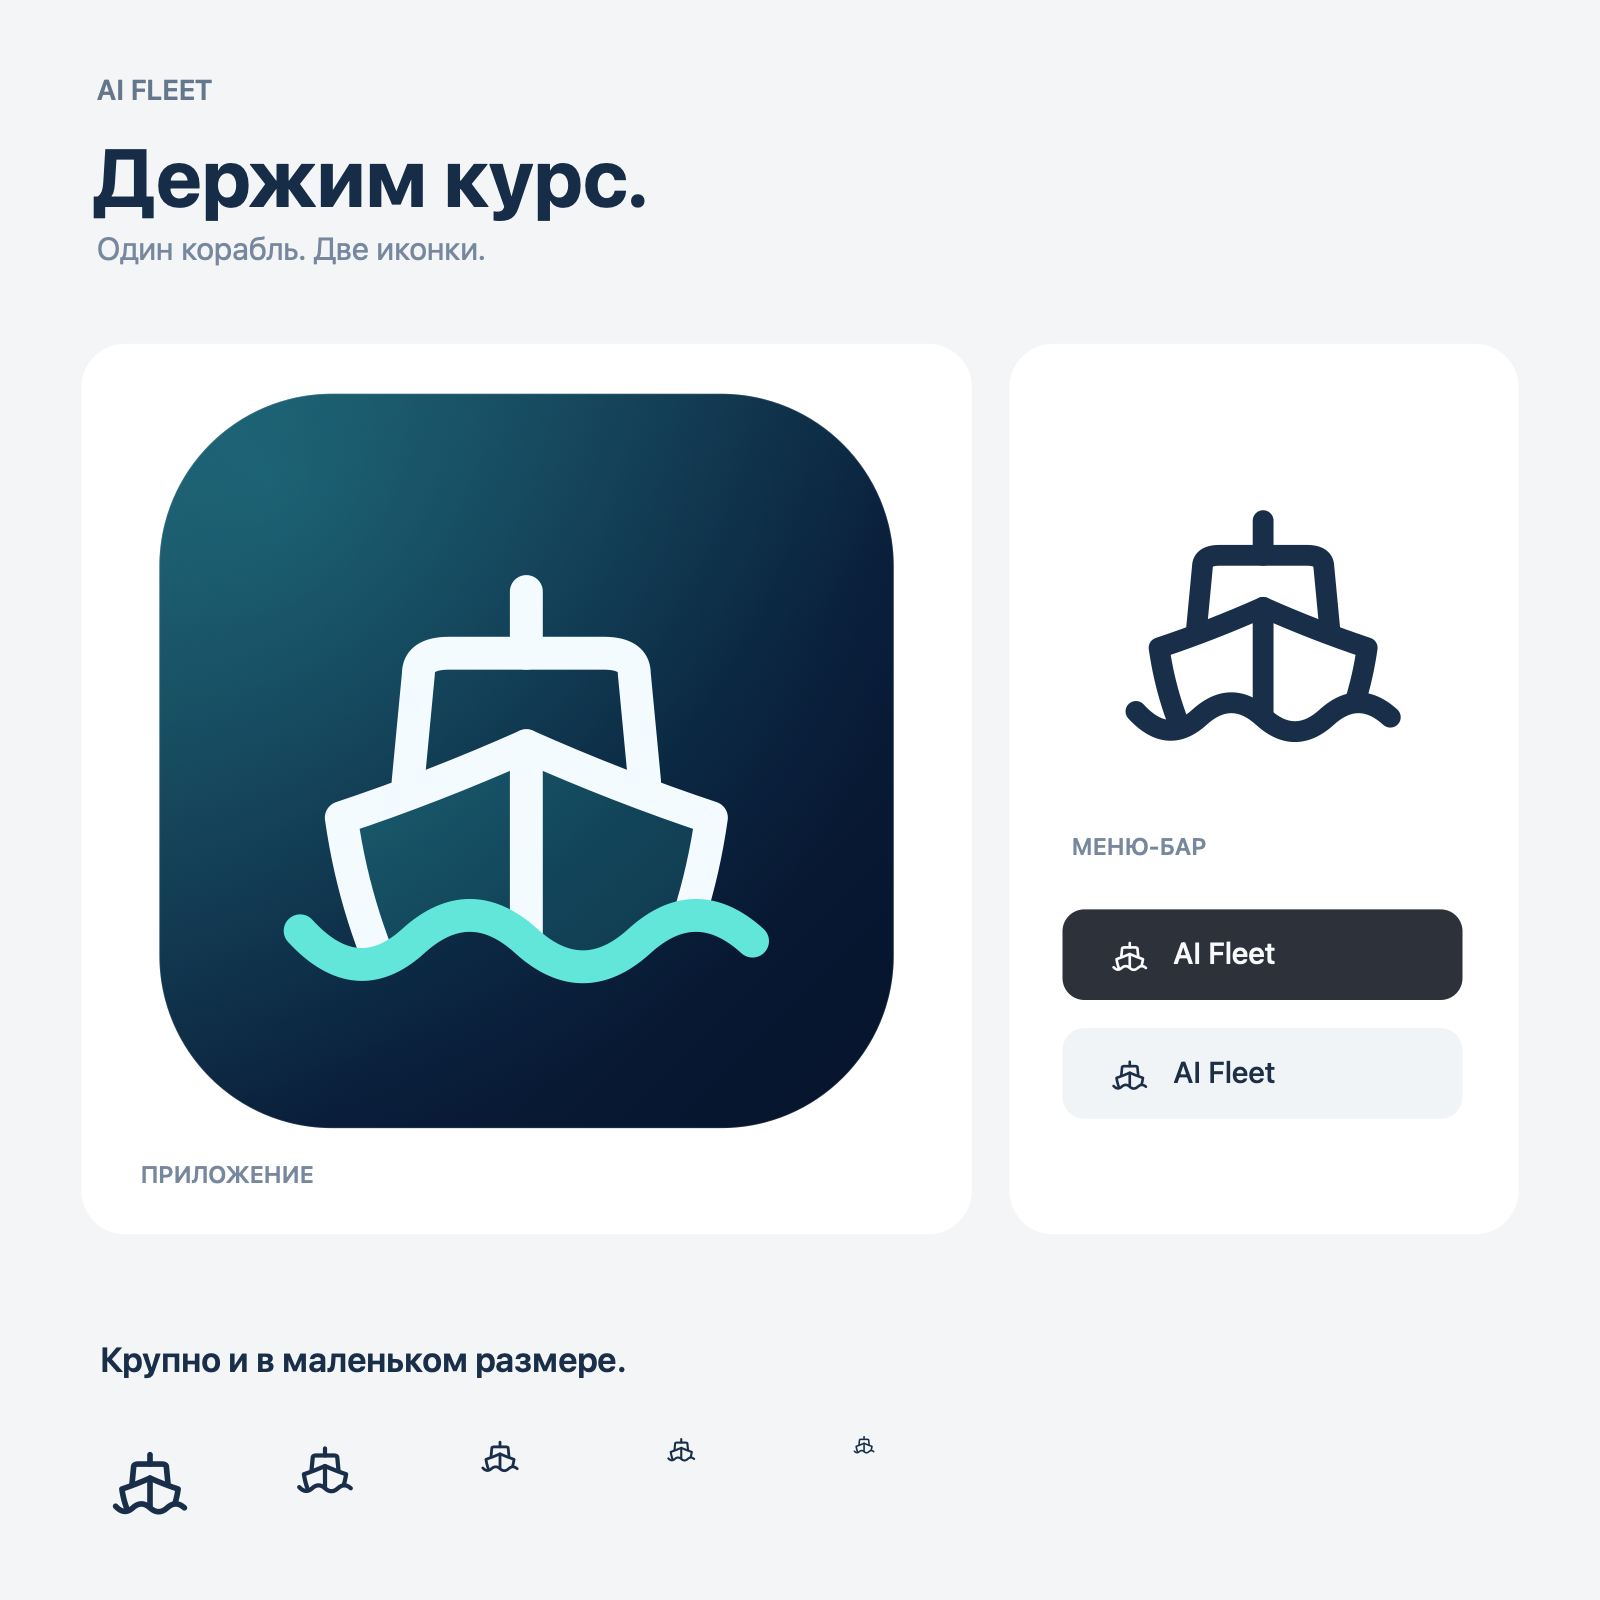
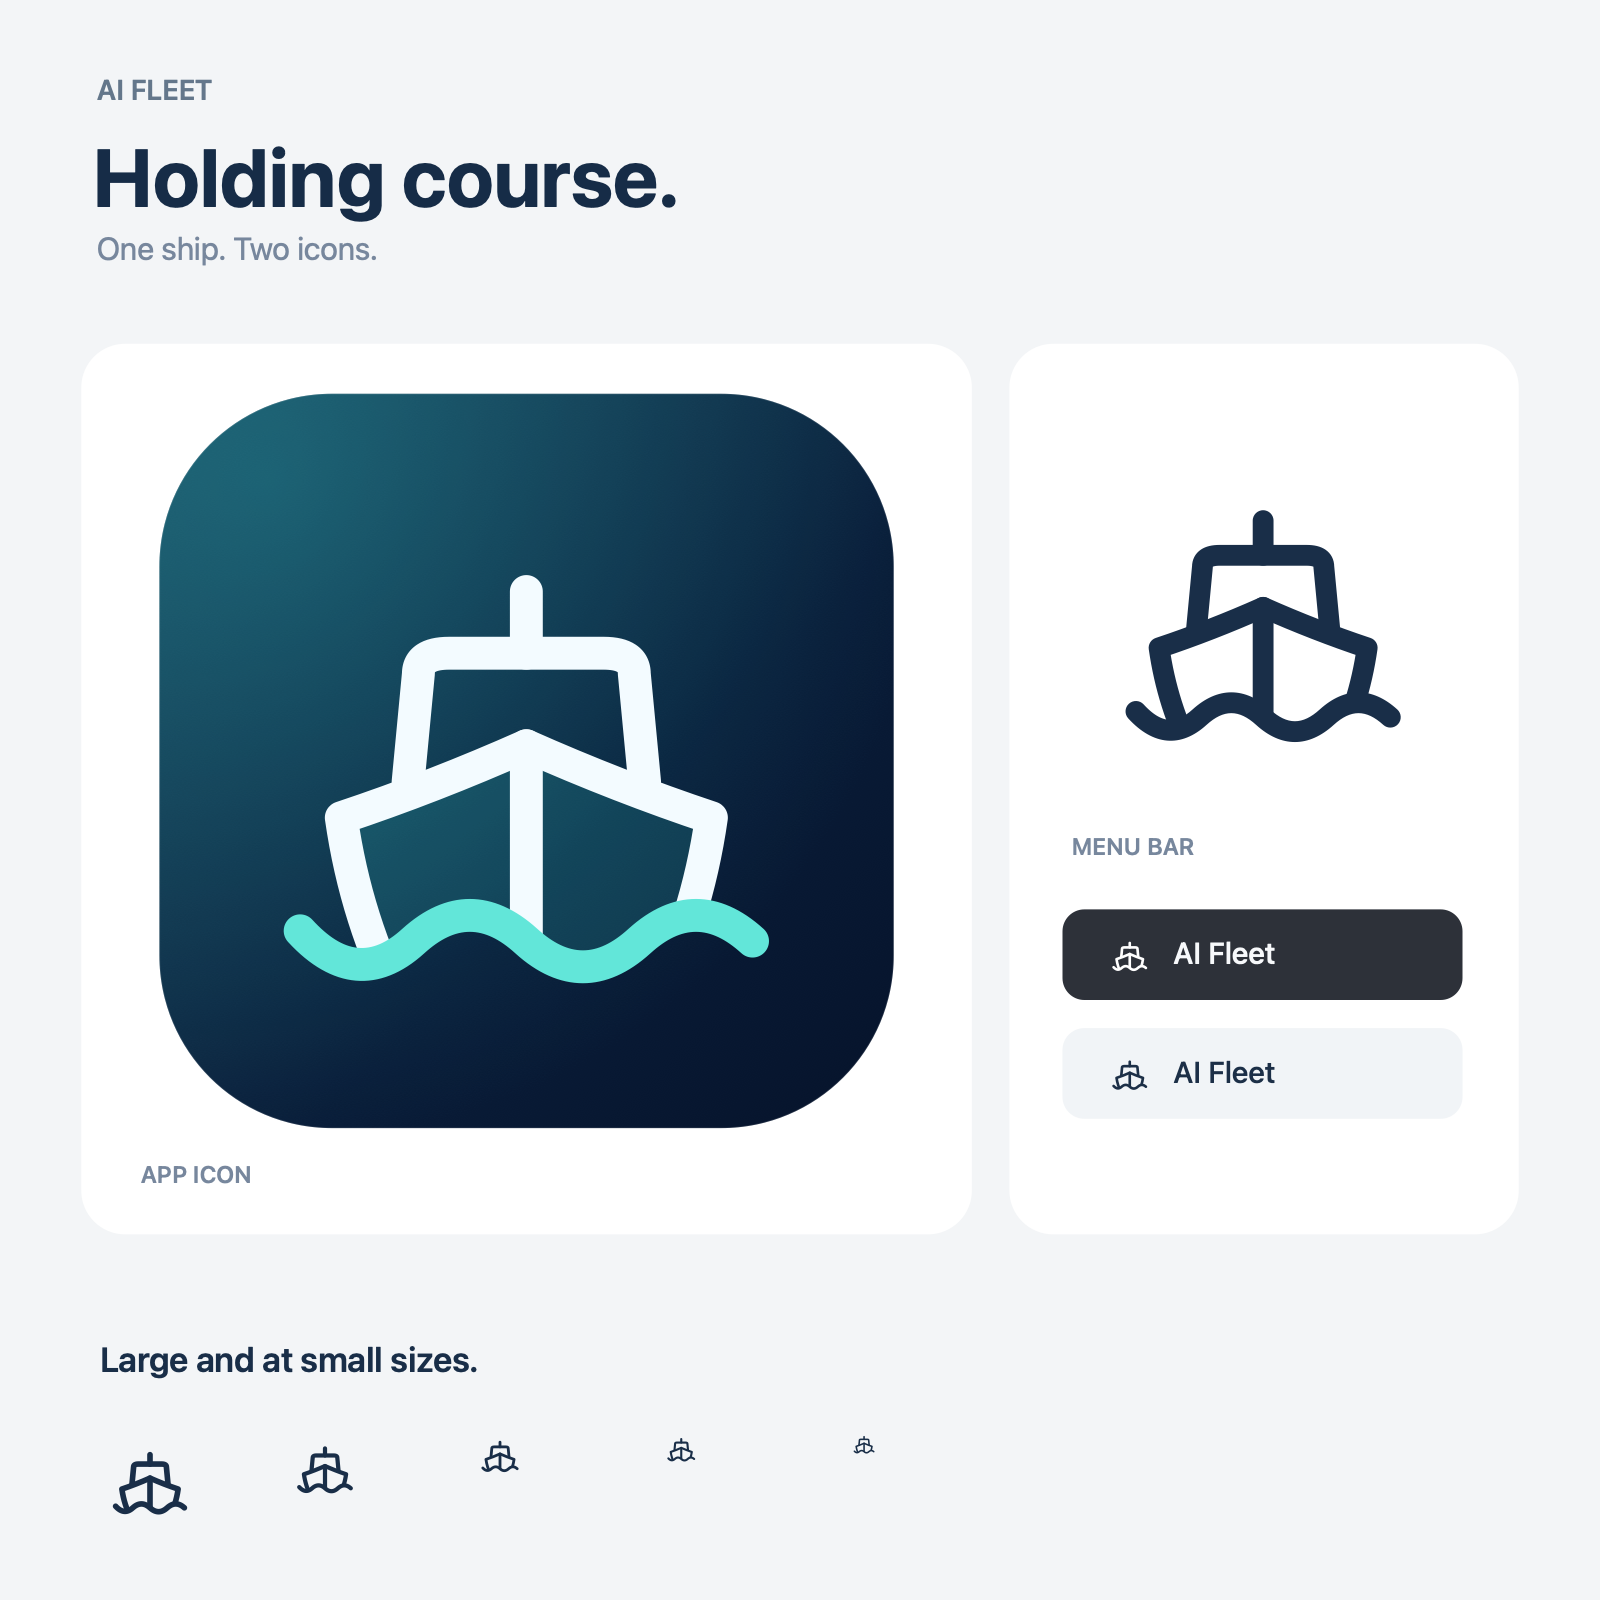
docs: translate ship-v4 preview labels to English
Translate the Russian labels in the ship-v4 preview generator, regenerate
Preview.png with the native renderer, and record the English artifact
language rule in AGENTS.md.

diff --git a/docs/assets/icon-collection/ship-v4/draw.swift b/docs/assets/icon-collection/ship-v4/draw.swift
@@ -86,22 +86,22 @@ try render(size: 1600, file: "Preview.png") { ctx in
         NSGraphicsContext.restoreGraphicsState()
     }
     text("AI FLEET", x: 62, y: 45, size: 18, ink: "526378", weight: .semibold)
-    text("Держим курс.", x: 60, y: 78, size: 52, ink: "122037", weight: .bold)
-    text("Один корабль. Две иконки.", x: 62, y: 146, size: 20, ink: "64748B")
+    text("Holding course.", x: 60, y: 78, size: 52, ink: "122037", weight: .bold)
+    text("One ship. Two icons.", x: 62, y: 146, size: 20, ink: "64748B")
     ctx.setFillColor(color("FFFFFF")); ctx.addPath(CGPath(roundedRect: CGRect(x: 52, y: 220, width: 570, height: 570), cornerWidth: 28, cornerHeight: 28, transform: nil)); ctx.fillPath()
     tile(ctx, rect: CGRect(x: 102, y: 252, width: 470, height: 470))
     ship(ctx, x: 126.3, y: 273.3, scale: 6.58, ink: "F0FAFF", app: true)
-    text("ПРИЛОЖЕНИЕ", x: 90, y: 742, size: 15, ink: "64748B", weight: .semibold)
+    text("APP ICON", x: 90, y: 742, size: 15, ink: "64748B", weight: .semibold)
     ctx.setFillColor(color("FFFFFF")); ctx.addPath(CGPath(roundedRect: CGRect(x: 646, y: 220, width: 326, height: 570), cornerWidth: 28, cornerHeight: 28, transform: nil)); ctx.fillPath()
     ship(ctx, x: 690, y: 274, scale: 3.7, ink: "142238")
-    text("МЕНЮ-БАР", x: 686, y: 532, size: 15, ink: "64748B", weight: .semibold)
+    text("MENU BAR", x: 686, y: 532, size: 15, ink: "64748B", weight: .semibold)
     ctx.setFillColor(color("22252B")); ctx.addPath(CGPath(roundedRect: CGRect(x: 680, y: 582, width: 256, height: 58), cornerWidth: 14, cornerHeight: 14, transform: nil)); ctx.fillPath()
     ship(ctx, x: 708, y: 596, scale: 0.47, ink: "FFFFFF")
     text("AI Fleet", x: 751, y: 598, size: 19, ink: "F5F7FA", weight: .medium)
     ctx.setFillColor(color("EEF1F5")); ctx.addPath(CGPath(roundedRect: CGRect(x: 680, y: 658, width: 256, height: 58), cornerWidth: 14, cornerHeight: 14, transform: nil)); ctx.fillPath()
     ship(ctx, x: 708, y: 672, scale: 0.47, ink: "162337")
     text("AI Fleet", x: 751, y: 674, size: 19, ink: "162337", weight: .medium)
-    text("Крупно и в маленьком размере.", x: 64, y: 855, size: 22, ink: "142238", weight: .semibold)
+    text("Large and at small sizes.", x: 64, y: 855, size: 22, ink: "142238", weight: .semibold)
     for (i, s) in [64.0,48,32,24,18].enumerated() {
         ship(ctx, x: 64 + CGFloat(i) * 120, y: 915, scale: s / 64, ink: "142238")
     }

diff --git a/AGENTS.md b/AGENTS.md
@@ -41,6 +41,10 @@ Read these only when the task requires them:
 - `docs/ideas/*` — idea triage only.
 - `docs/reports/*` — reports/history only when relevant.
 
+## Local rules
+
+- Write authored code, comments, docs, plans, generated labels, and commit text in English; keep original-language source data and behavior-bearing fixtures unchanged.
+
 ## Rule priority
 
 1. Current user instruction
